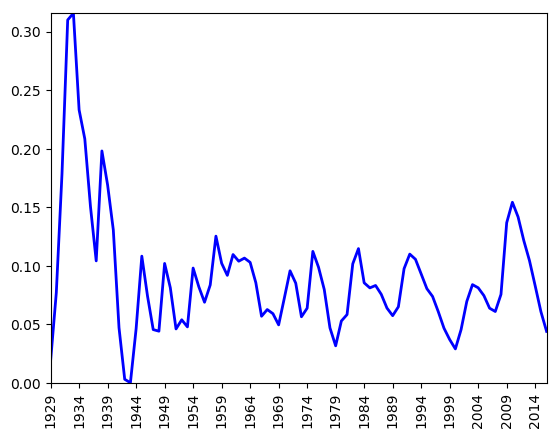
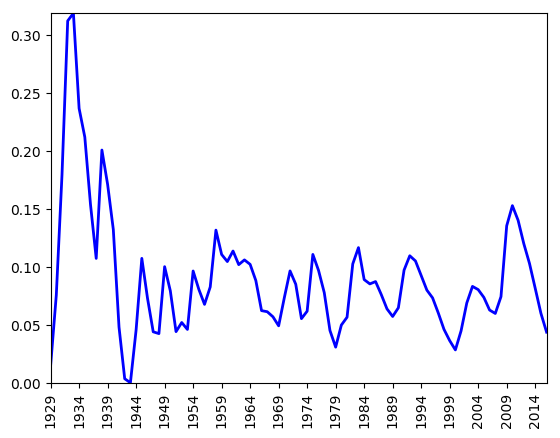
slightly adjusted employment

diff --git a/employment.py b/employment.py
@@ -8,9 +8,9 @@ df.columns=['DATE', 'EMPLOYEES']
 df.DATE=df.DATE.map(lambda x: x.replace('-01-01', ''))
 df.DATE=pd.to_numeric(df.DATE)
 df.EMPLOYEES=np.log(df.EMPLOYEES)
-uns=-(df.EMPLOYEES-sp.savgol_filter(df.EMPLOYEES, 57, 4))
+uns=-(df.EMPLOYEES-sp.savgol_filter(df.EMPLOYEES, 59, 4))
 une=abs(uns)
-uny=(sp.savgol_filter(une, 57, 6))
+uny=(sp.savgol_filter(une, 59, 6))
 unw=uns+uny-(uns+uny).min()
 plt.xticks(rotation=90)
 plt.xticks(np.arange(1929, 2017, 5))
